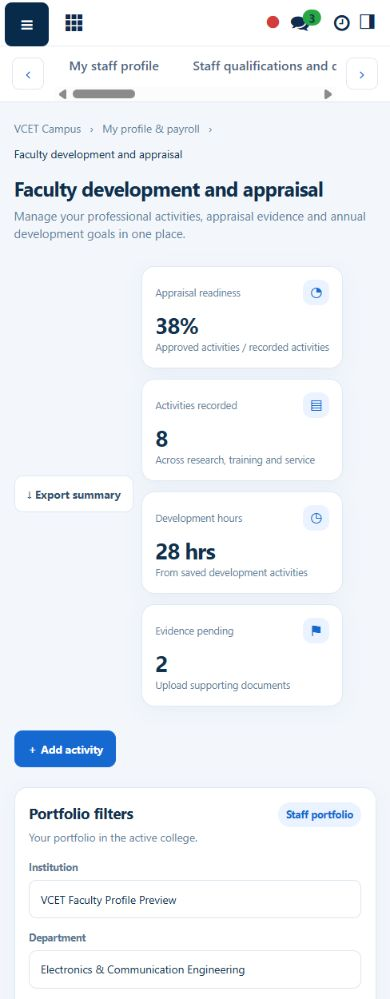
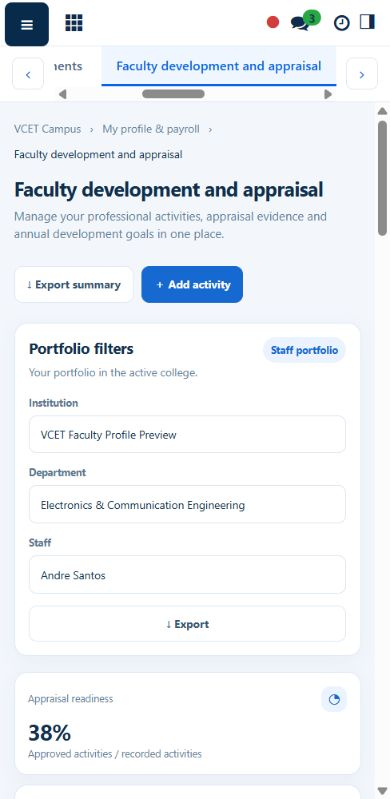
Restore native scrolling in faculty profile workspace

diff --git a/addons/ideastone_erp/static/src/scss/faculty_profile_workspace.scss b/addons/ideastone_erp/static/src/scss/faculty_profile_workspace.scss
@@ -83,7 +83,12 @@ font:13px/1.5 Inter,ui-sans-serif,system-ui,-apple-system,"Segoe UI",sans-serif;
 @media(max-width:760px){.stats{grid-template-columns:repeat(2,minmax(0,1fr))}.cols,.dev-main-grid,.leave-layout{grid-template-columns:minmax(0,1fr)!important}.content{padding:18px 14px}.field-grid,.detail-grid{grid-template-columns:1fr}.profile-summary{flex-wrap:wrap}.page-heading{display:flex}.table-wrap{overflow:auto}.stat-value{font-size:22px}.leave-field-row{grid-template-columns:1fr!important}.leave-field-row>*{grid-column:auto!important}.dev-category-grid{grid-template-columns:repeat(2,minmax(0,1fr))}.profile-summary>div{min-width:0}.filters{grid-template-columns:1fr!important}}
 @media(max-width:400px){.stats{grid-template-columns:1fr}.dev-category-grid{grid-template-columns:1fr}.panel{padding:14px}.btn{white-space:normal}.heading-actions{justify-content:flex-start!important}}
 }
-body.campus_faculty_workspace .o_action:has(>.campus_faculty_profile_workspace){overflow:auto;background:#f3f7fc}
+.o_action_manager > main.campus_faculty_profile_workspace {
+    height: 100%;
+    min-height: 0;
+    overflow-y: auto;
+    overflow-x: hidden;
+}
 
 .campus_faculty_profile_workspace .btn.btn-primary{background:#1769d2;border-color:#1769d2;color:#fff}.campus_faculty_profile_workspace h4{font-family:inherit;color:#12314f}
 

diff --git a/docs/qa/faculty-profile-reference/README.md b/docs/qa/faculty-profile-reference/README.md
@@ -91,3 +91,23 @@ names, evidence files, contacts and financial amounts are for interface testing.
 
 Screenshots show each desktop page, selected phone layouts, and the phone upload
 form. Raw local logs are ignored by Git. The supplied source document is unchanged.
+
+## Scrolling repair
+
+The original overflow selector expected a wrapper around the client component,
+but Odoo mounts its `main` directly in `.o_action_manager`. That left tall content
+clipped by the action manager. The direct child now has a bounded 100% height,
+zero minimum height and native vertical scrolling. It is keyboard focusable too.
+Appraisal summary cards are in the page body after portfolio filters, outside
+the heading's action buttons.
+
+`scroll-verification.json` records 28 bottom-to-top checks across all seven pages
+at 1440, 768, 390 and 320 px, using an 800 px viewport height. Every page returned
+to scroll offset zero without horizontal page overflow. Native keyboard scrolling
+and wheel input were exercised; wheel checks were observed after browser scroll
+animation settled. The user's visible preview tab was refreshed and independently
+returned from offset 1892.8 to zero. Screenshots were updated; `scroll-restored.png`
+shows that visible preview back at the profile heading.
+
+This repair changes only scoped CSS and the client template. XML structure and
+Git whitespace checks pass; the earlier 156-test backend result is unchanged.
